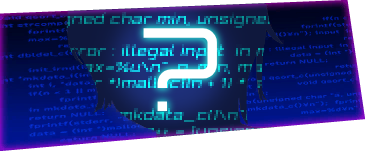
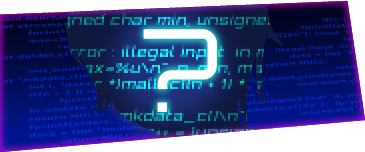
Added white masks to match fade-in from DFCI VS screen.

diff --git a/src/styles.scss b/src/styles.scss
@@ -24,12 +24,18 @@
 
   // Clip path for button
   --dfc-button-shape: polygon(92% 0%, 100% 50%, 100% 100%, 8% 100%, 0% 50%, 0% 0%);
+  --dfc-player-sel-shape-p1: polygon(0 0, 87% 9%, 100% 90%, 0% 100%);
+  --dfc-player-sel-shape-p2: polygon(13% 9%, 100% 0, 100% 100%, 0 90%);
+  --dfc-asst-sel-shape-p1: polygon(0 8%, 96% 0, 100% 80%, 0% 100%);
+  --dfc-asst-sel-shape-p2: polygon(5% 0, 100% 8%, 100% 100%, 0 80%);
 
   // lg-shadow base, functions more like an outer glow than a shadow
   --text-shadow-glow: 0px 0px 2px rgba(0, 0, 0, 0.1), 0px 0px 2px varrgba(0, 0, 0, 0.1), 0px 0px 8px rgba(0, 0, 0, 0.1);
 
   --animate-p1-select: hover-p1 2s infinite;
   --animate-p2-select: hover-p2 2s infinite;
+  --animate-open-h: appear-h ease-out 416ms 1;
+  --animate-open-h-flash: appear-h-flash ease-out 166ms 416ms 1 forwards; 
 
   @keyframes hover-p1 {
     0% { box-shadow: 0 0 #0000, 0 0 #0000, 0 0 #0000, 0 0 0 4px var(--color-red-50), 0 0 #0000 }
@@ -42,11 +48,37 @@
     50% { box-shadow: 0 0 #0000, 0 0 #0000, 0 0 #0000, 0 0 0 4px var(--color-blue-600), 0 0 #0000 }
     100% { box-shadow: 0 0 #0000, 0 0 #0000, 0 0 #0000, 0 0 0 4px var(--color-blue-50), 0 0 #0000 }
   }
+
+  @keyframes appear-h {
+    0% { transform: scale(1, 0.2); }
+    100% { transform: scale(1, 1); }
+  }
+
+  @keyframes appear-h-flash {
+    0% { opacity: 100%; }
+    100% { opacity: 0%; }
+  }
 }
 
 @layer components {
   .dfc-button, .dfc-button * {
     clip-path: var(--dfc-button-shape) !important;
+  }
+
+  .player-sel-flash-p1 {
+    clip-path: var(--dfc-player-sel-shape-p1);
+  }
+
+  .player-sel-flash-p2 {
+    clip-path: var(--dfc-player-sel-shape-p2);
+  }
+
+  .asst-sel-flash-p1 {
+    clip-path: var(--dfc-asst-sel-shape-p1);
+  }
+
+  .asst-sel-flash-p2 {
+    clip-path: var(--dfc-asst-sel-shape-p2)
   }
 
   .nav-text {

diff --git a/src/app/gallery/vs-screen/player/assist-select/assist-select.html b/src/app/gallery/vs-screen/player/assist-select/assist-select.html
@@ -27,7 +27,7 @@
     </mat-form-field>
 } @else {
     <button
-        class="cursor-pointer" 
+        class="cursor-pointer animate-open-h" 
         (click)="isOpen.set(!isOpen())" 
         type="button" 
         cdkOverlayOrigin 
@@ -38,6 +38,7 @@
             width="365"
             height="152"
         />
+        <div [ngClass]="`${isP1() ? 'asst-sel-flash-p1' : 'asst-sel-flash-p2'} absolute top-0 animate-open-h-flash w-full h-full bg-white`"></div>
     </button>
     <ng-template
         cdkConnectedOverlay
@@ -50,6 +51,12 @@
                 originY: 'center',
                 overlayX: (isP1()) ? 'start' : 'end',
                 overlayY: 'center'
+            },
+            {
+                originX: (isP1()) ? 'start' : 'end',
+                originY: 'bottom',
+                overlayX: (isP1()) ? 'start' : 'end',
+                overlayY: 'bottom'
             }
         ]"
         (detach)="isOpen.set(false)"

diff --git a/src/app/gallery/vs-screen/player/char-select/char-select.ts b/src/app/gallery/vs-screen/player/char-select/char-select.ts
@@ -1,5 +1,5 @@
-import { Component, inject, input, output, signal } from '@angular/core';
-import { NgOptimizedImage } from '@angular/common';
+import { Component, input, output, signal } from '@angular/core';
+import { NgOptimizedImage, NgClass } from '@angular/common';
 import { Character, PlayableCharacters } from '../../../../api/Characters';
 import { CharMenu } from './char-menu/char-menu';
 import { MatSelectModule } from '@angular/material/select';
@@ -7,7 +7,7 @@ import { OverlayModule } from '@angular/cdk/overlay';
 
 @Component({
   selector: 'app-char-select',
-  imports: [NgOptimizedImage, CharMenu, MatSelectModule, OverlayModule],
+  imports: [NgOptimizedImage, CharMenu, MatSelectModule, OverlayModule, NgClass],
   templateUrl: './char-select.html',
   styleUrl: './char-select.scss'
 })

diff --git a/src/app/gallery/vs-screen/player/assist-select/assist-select.ts b/src/app/gallery/vs-screen/player/assist-select/assist-select.ts
@@ -1,5 +1,5 @@
 import { Component, input, output, signal } from '@angular/core';
-import { NgOptimizedImage } from '@angular/common';
+import { NgOptimizedImage, NgClass } from '@angular/common';
 import { Character, AssistCharacters } from '../../../../api/Characters';
 import { AssistMenu } from './assist-menu/assist-menu';
 import { MatSelectModule } from '@angular/material/select';
@@ -8,7 +8,7 @@ import { MatExpansionModule } from "@angular/material/expansion";
 
 @Component({
   selector: 'app-assist-select',
-  imports: [NgOptimizedImage, AssistMenu, MatSelectModule, OverlayModule, MatExpansionModule],
+  imports: [NgOptimizedImage, NgClass, AssistMenu, MatSelectModule, OverlayModule, MatExpansionModule],
   templateUrl: './assist-select.html',
   styleUrl: './assist-select.scss'
 })

diff --git a/src/app/gallery/vs-screen/player/char-select/char-select.html b/src/app/gallery/vs-screen/player/char-select/char-select.html
@@ -27,7 +27,7 @@
     </mat-form-field>
 } @else {
     <button
-        class="cursor-pointer" 
+        class="cursor-pointer animate-open-h" 
         (click)="isOpen.set(!isOpen())" 
         type="button" 
         cdkOverlayOrigin 
@@ -38,6 +38,7 @@
             width="596"
             height="395"
         />
+        <div [ngClass]="`${isP1() ? 'player-sel-flash-p1' : 'player-sel-flash-p2'} absolute top-0 animate-open-h-flash w-full h-full bg-white`"></div>
     </button>
     <ng-template
         cdkConnectedOverlay

diff --git a/src/app/gallery/vs-screen/player/char-select/char-menu/char-menu.html b/src/app/gallery/vs-screen/player/char-select/char-menu/char-menu.html
@@ -1,4 +1,4 @@
-<div [ngClass]="`py-2 px-2 bg-black/75 skew-0! mx-1`">
+<div [ngClass]="`py-2 px-2 bg-black/75 skew-0! mx-1 animate-open-h`">
     <div>
         <span class="block w-full text-center text-white italic text-xl text-shadow-glow text-shadow-(color:--dfc-char-sel-glow)">Character Select</span>
         <div class="flex flex-row flex-wrap gap-1 py-2 justify-center">
